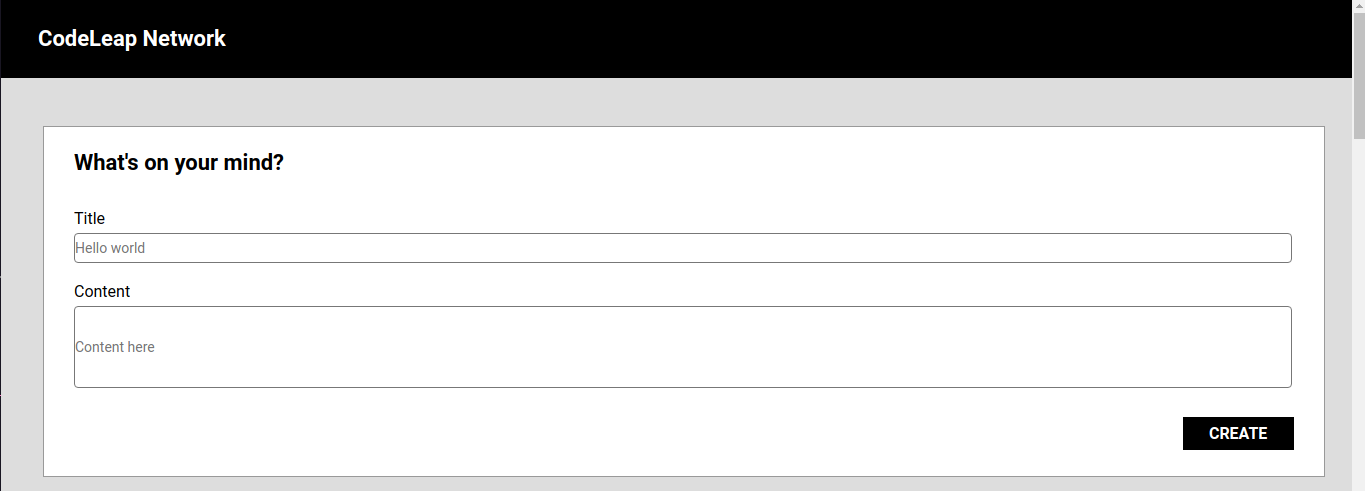
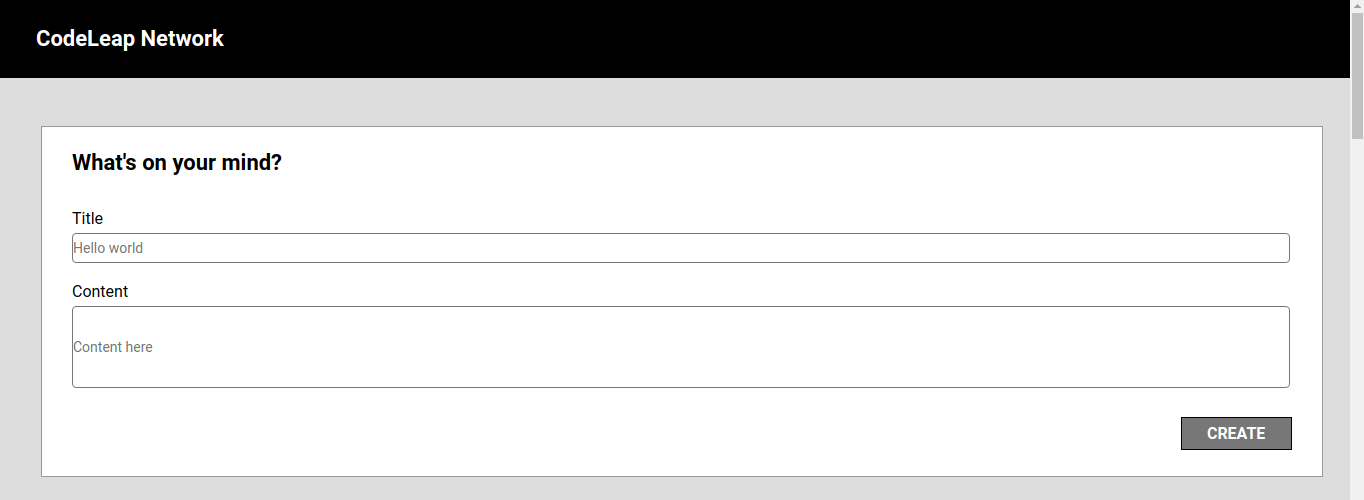
Ajustes finos

diff --git a/src/components/ModalForm/index.tsx b/src/components/ModalForm/index.tsx
@@ -57,7 +57,11 @@ export const ModalForm = ({titleModal, labelButton, idEdit, titleEdit, contentEd
           placeholder='Content here' 
           value={content || ''}
           onChange={(e) => setContent(e.target.value)}/>
-        <button onClick={handleSubmit}>{labelButton}</button>
+        <button 
+          disabled={(!title.trim() || !content.trim()) ? true : false}  
+          onClick={handleSubmit}>
+            {labelButton}
+        </button>
         {children}
     </div>
   );

diff --git a/src/components/ModalForm/styles.css b/src/components/ModalForm/styles.css
@@ -71,3 +71,9 @@
   color: #000000;
   border: 0.063rem solid #000000;
 }
+
+.createPost button:disabled {
+  background-color: #777777;
+  color: #FFF;
+  border: 0.063rem solid #000000;
+} 
